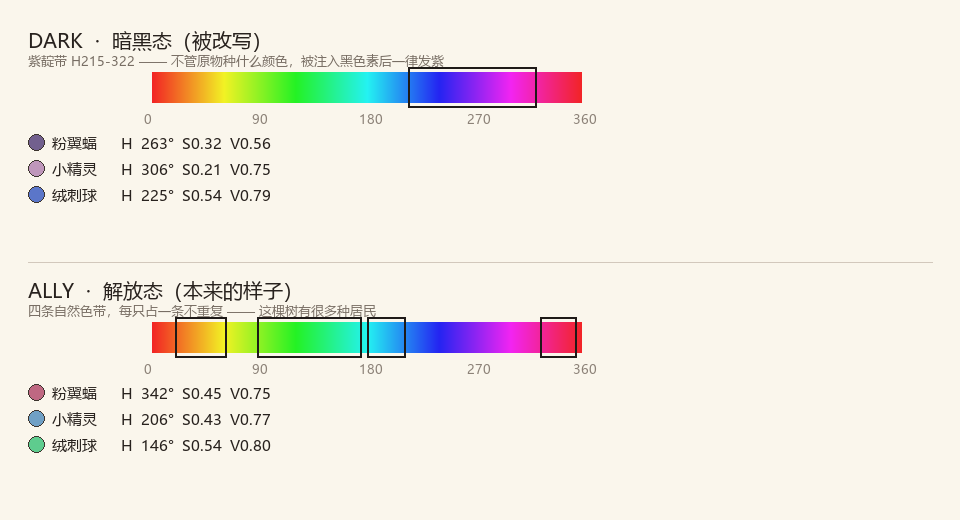
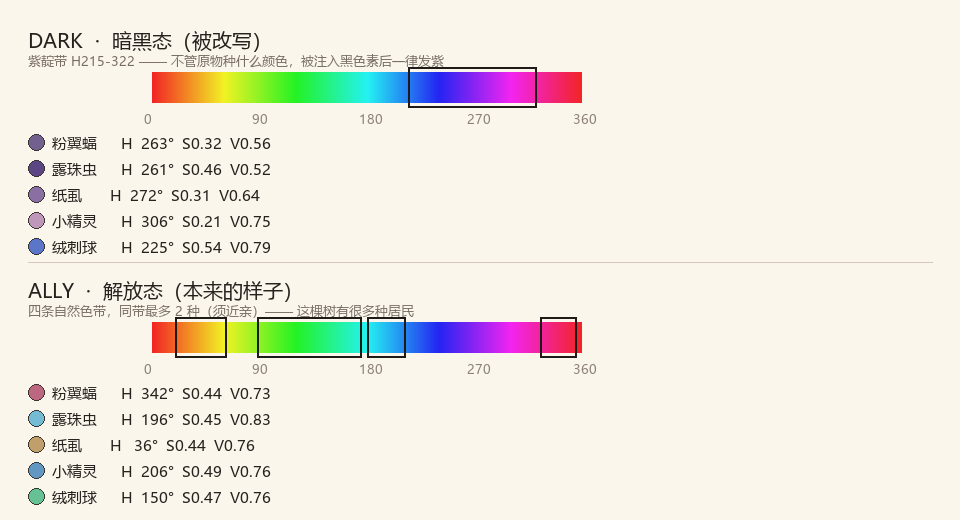
美术: 补齐第 4、5 种敌人两态（纸屑群→纸虱 / 墨渍→露珠虫）
GDD 02 §5.3 写着 5 种敌人，art/approved/Enemies 只有 3 种 —— 文档和磁盘各自
都"合法"，谁也不报错，欠账就这么藏了两轮。这轮补完，并把这条变成断言。

## 两条新敌人：生图三轮才对

纸屑群/墨渍从零生图，试了三版，每版栽在不同地方：
v1 色对但太暗（V0.26 / 0.17，既有三只是 0.56-0.79）+ 墨渍带了一圈墨滩，
   放大会变一条黑杠（等于画了地面阴影）
v2 明度上来但偏粉（纸虱 H330，暗带只到 322）+ 纸片半透明、透出洋红底
v3 多出一圈白贴纸边（既有暗黑态是深紫外轮廓，白边一眼不是同一批）
v4 拿既有的 slime 暗黑态当**风格参考**（只借色语言与蜡笔层次，不借形状）
   → 一次过：lice H272 S0.31 V0.64 cmp 0.56 / ink H261 S0.46 V0.52 cmp 0.48

**结论：暗黑态的色相和明暗层次必须生在源头。** 试过后期 p5-p95 拉伸 + 加法平移，
V 从 0.17 顶到 0.78，对比度仍是 0.16 —— 平图硬拉只会得到一张浅灰的纸。
所以 `--dark` 只验不修：V 0.50-0.85、对比度 ≥0.40，不合就回源头重生成。

## 画布约定写进代码

三只旧 sprite 的 bbox 是 x[30,97] y[40,87] / x[29,95] y[40,87] / x[37,89] y[40,87]
—— 内容高都 48、脚底都压 y=87、最大宽 68。这套是量出来的，不是猜的，
新敌人并排站才一样高。`place()` 按它放，`--dark` 是唯一入口。

## 一条规则冲突（未解决，等白哥定）

MVP 敌人 5 种，自然色带只有 4 条，原规则写"每只占一条不重复"→ 第 5 只没位置。
放宽成「同带最多 2 种，且必须近亲」：加第 5 条带只能从嫩绿里切 25°，肉眼分不出，
等于假装有 5 种颜色。水蓝带现在是小精灵（软体）+ 露珠虫（水滴），语义成立。

另一条是真冲突，没绕过去：**纸的固有色是米白，但 ally 硬下限 S≥0.40**。
两条一撞，纸虱只能做成麦纸金 H36/S0.44，实战尺寸读作"暖褐纸片群"，比"晒过的白纸"脏一档。
三条出路（维持现状 / 给纸类开低饱和豁免 / 换物种）都写进 ASSET_RULES §3.1.3，
代价逐条列了，当前取 A（不动规则）。

## 断言：文档说几种，磁盘就得有几种 × 2 态

tree_check 加第 6 条：02 §5.3 每行的**资产键**必须两个状态的文件都在。
反向验证：移走 enemy_ink_ally_00_sprite.png → 立刻报「墨渍 ally 版缺文件」。
（加这条之前，5 种缺 2 种是完全静默的。）

02 §5.3 同时加「资产键」列 —— 文档名（纸团）↔ 物种（史莱姆）↔ 文件名（slime）
三者终于有了一张对照表，不用再靠猜。

## 其它

- duo_state 支持无卡物种：lice/ink 走生图产线没有 PALETTES 色卡，
  但仍参与同一份断言；summary 里印「生成版」而不印 Δ色相（相对判据对重画的版本不成立）
- 修 --palette 误触产出分支（带查看开关时不该重算候选，遇到生图物种就炸）
- 可重现性验证：换名后的原始图重跑，四张资产逐字节相同
[…]

diff --git a/art/tools/duo_state.py b/art/tools/duo_state.py
@@ -459,13 +459,22 @@ def ally_path(key: str) -> Path:
     return ENEMY_DIR / f"{m.group(1)}_ally_{m.group(2)}_sprite.png"
 
 
+# 五个物种的中文名（GDD 05 §5 / 02 §5.3 同源）。色卡只管走**换色产线**的物种；
+# 走生图产线的物种没有色卡，靠 ally_from_gen.py 的 TARGET_HUE —— 但它们在
+# `--check` 里仍要参与同一份断言，所以名字必须能取到。
+SPECIES_CN = {
+    "slime": "小精灵", "bat": "粉翼蝠", "spike": "绒刺球",
+    "lice": "纸虱", "ink": "露珠虫",
+}
+
+
 def card_of(key: str) -> dict:
     sp = species_of(key)
-    if sp not in PALETTES:
-        raise SystemExit(
-            f"{sp} 没有色卡 —— 不猜目标色。先跑 `--probe` 看它的色相锚点，"
-            f"再往 PALETTES 里加一条（参照已有的 slime / bat / spike）")
-    return PALETTES[sp]
+    if sp in PALETTES:
+        return PALETTES[sp]
+    if sp not in SPECIES_CN:
+        raise SystemExit(f"未知物种 {sp}：既没色卡也不在 SPECIES_CN 里，不猜")
+    return dict(species=SPECIES_CN[sp], why="生图产线（ally_from_gen.py）", generated=True)
 
 
 # ── probe：量色相锚点（配色卡时的依据） ─────────────────────────────
@@ -549,7 +558,7 @@ def palette_sheet(rows) -> Path:
           "紫靛带 H215-322 —— 不管原物种什么颜色，被注入黑色素后一律发紫",
           [DARK_HUE_BAND], rows, 1)
     block(276, "ALLY  ·  解放态（本来的样子）",
-          "四条自然色带，每只占一条不重复 —— 这棵树有很多种居民",
+          "四条自然色带，同带最多 2 种（须近亲）—— 这棵树有很多种居民",
           ALLY_HUE_BANDS, rows, 2)
 
     d.line([(28, 262), (W - 28, 262)], fill=(210, 200, 188))
@@ -575,17 +584,24 @@ def main() -> int:
 
     errs: list[str] = []
     rows = []
+    # 只有"纯产出"（不带任何查看开关）才动文件。--palette/--sheet 只是画图，
+    # 不该顺手重算候选，更不该因为遇到生图物种就炸掉整张总览图。
+    produce = not any(f in args for f in ("--check", "--palette", "--sheet", "--probe"))
 
     for key, src in srcs:
         dark = Image.open(src).convert("RGBA")
         dst = ally_path(key)
         card = card_of(key)
-        if "--check" in args:
+        if "--check" in args or not produce:
             if not dst.exists():
                 errs.append(f"{key}: 还没生成 {dst.name} —— 跑一次不带 --check 的")
                 continue
             ally = Image.open(dst).convert("RGBA")
         else:
+            if card.get("generated"):
+                raise SystemExit(
+                    f"{key}: {card['species']} 没有色卡 —— 它走的是生图产线。"
+                    "换色救不了眼睛（凶感来自眼型），请用 ally_from_gen.py --set")
             # 默认只出候选，**不覆盖 approved**。
             # 2026-11-27 踩过：守卫循环里 `python duo_state.py`（无参数）跑了一次，
             # 把生成版 ally 覆盖回了换色版，而 --check 随后报 PASS（换色版本身是合法的）。
@@ -607,9 +623,15 @@ def main() -> int:
     print("-" * 70)
     for key, d, al, card, e in rows:
         md, ma = metrics(d), metrics(al)
-        print(f"{key:<28}{_hue_delta(md['hue'], ma['hue']):>7.0f}°"
-              f"  {md['sat']:.2f}→{ma['sat']:.2f}"
-              f"   {md['cmp']:.2f}→{ma['cmp']:.2f}")
+        if card.get("generated"):
+            # 生图版是重画的：色系来自目标带而不是继承 dark，
+            # 印"Δ色相/饱和塌没塌"会误导 —— 那两条判据对它本来就是关的。
+            print(f"{key:<28}{'生成版':>8}"
+                  f"  S {ma['sat']:.2f}   V {ma['vavg']:.2f}   带 {ma['hue']:.0f}°")
+        else:
+            print(f"{key:<28}{_hue_delta(md['hue'], ma['hue']):>7.0f}°"
+                  f"  {md['sat']:.2f}→{ma['sat']:.2f}"
+                  f"   {md['cmp']:.2f}→{ma['cmp']:.2f}")
         print(f"  └ {card['species']}：{card['why']}")
         for msg in e:
             print(f"  ✗ {msg}")

diff --git a/tools/ref/tree_check.py b/tools/ref/tree_check.py
@@ -32,6 +32,7 @@ DOC04 = GDD / "04_关卡与地图.md"
 DOC02 = GDD / "02_战斗系统.md"
 DOC_REF = REF / "REF_TREE_PHYSIOLOGY.md"
 JSON_REF = REF / "tree_physiology_refs.json"
+ENEMY_DIR = ROOT / "art" / "approved" / "Enemies"
 
 # 八处翻译：系统词 → 生理词（必须同一行出现）
 MAPPINGS = [
@@ -374,6 +375,28 @@ def check_duo(r05: str, r03: str, r02: str) -> list[str]:
         empty = [r[0] for r in rows2 if ci >= 0 and (ci >= len(r) or not r[ci].strip("—*- "))]
         if empty:
             errs.append(f"02 §5.3: {len(empty)} 个敌人没填原住民态（{', '.join(empty)}）")
+
+        # 6. 文档说 5 种，磁盘上就必须有 5 种 × 2 态。
+        # 加这条之前，02 写着 5 种而 art/approved/Enemies 只有 3 种，
+        # 两边各自都"合法"，谁也不报错 —— 美术欠账就是这么藏住的。
+        # 判据必须指向**文件存在**，不是指向文档里有个名字。
+        if "资产键" not in "".join(hdr2):
+            errs.append("02 §5.3: 表头缺「资产键」列 —— 文档名与文件名没有对应，"
+                        "读者只能靠猜 enemy_??_idle_00_sprite 是哪只")
+        else:
+            ki = next((i for i, h in enumerate(hdr2) if "资产键" in h), -1)
+            for r in rows2:
+                if ki < 0 or ki >= len(r):
+                    continue
+                key = r[ki].strip(" `*")
+                if not key:
+                    errs.append(f"02 §5.3: 「{r[0]}」没填资产键")
+                    continue
+                for st in ("idle", "ally"):
+                    f = ENEMY_DIR / f"enemy_{key}_{st}_00_sprite.png"
+                    if not f.exists():
+                        errs.append(f"02 §5.3: 「{r[0]}」的 {st} 版资产缺文件（{f.name}）"
+                                    "—— 表里写了、磁盘上没有")
 
     return errs
 

diff --git a/INDEX.md b/INDEX.md
@@ -97,9 +97,9 @@
 | `tools/ref/stardew_check.py` | **星露谷数据校验器**：派生数自洽（270+7×34=508、6×24≥135、2x+50=3x→50）+ 文档数字同行一致 + 6 条结论句在位 + **从 03 实时解析投料参数重算回本表**。11-27 加**双分支**：03 还有星级表 → 重算比对；已无星级表 → 查 §10.3 是否标了「已被种子方案取代」（否则作废结论会以「待裁决」的样子留着）。反向验证五处 | 🟡 参考 |
 | ⭐ `docs/ref/REF_TREE_PHYSIOLOGY.md` | **世界树生理的事实底座**（11-27 建）：不做植物学教程，只回答"哪些机制能用、哪些不能用"。**两条流可被独立切断**（环剥：韧皮部断 / 木质部完好 / 根饿死 / 叶照绿 / 地上部分数周到数月看不出）；**树不愈合只隔离**（CODIT，愈伤 2–4 周起、小伤 1–2 季、大伤 3–5 年、从两侧长）；**吸器是双向的**（同器官既抽又注，可传 mRNA/蛋白/56 种病毒）、**菟丝子成网**（多寄主、信号传 1 米）、**变黑=导管栓塞+黑色素**（黑暗化不另立设定）、**女巫扫帚**（原生物种被改写，潜伏 2–3 年）、**心腐只吃心材**（树带烂心可活百年）。§6 物资两分，§8 列了**有依据的减法**（涂封剂无效 / 加工界面 / 心腐进度条） | 🟡 参考 |
 | `docs/ref/tree_physiology_refs.json` | 上面那份的结构化数据：两条流 / 环剥 / 伤口 / **寄生（吸器双向、成网、56 病毒）** / **黑化（栓塞+黑色素+甲虫媒介）** / **畸形（女巫扫帚潜伏 3–4 年）** / **物资两分** 七组事实 + **八处系统↔生理翻译** + 四条不抄。带内部一致性断言（可独立切断 ⇒ 木质部完好；吸器单向 ⇒ 注入无通道；稀有无再生 ⇒ 可再生则主线可刷） | 🟡 参考 |
-| `tools/ref/tree_check.py` | **主线落地校验器**：JSON 内部不矛盾（根断糖时叶子不能缺水；吸器非双向则"注入"无通道；可种=可再生/不可种=不可再生）+ 05 **八处**翻译齐全且与 JSON 条数一致 + 「不接数值」禁令 + 「带着疤活着」+ 03 §0.1 田的主人是原住民 / §0.2 稀有物品永远不能种 + **03 §6 不得再写"吸血虫"（外来种不能招安）** + 04 六区生理角色 + **02 §5.3 表头必须有"来源"列且五行全原生（查表头行，不查整段）** + REF 五个关键数字。反向验证**十二处**全部抓到（其中"删来源列"第一次糊过 —— 段落里也有"来源"两字，改成查表头才抓住；"删只换色系"也糊过一次 —— 断言用了"换色系"这个泛词，改成要求「换色」+「轮廓」同行才抓住）。11-27 加 §1.5.1 与两条敌人表的**原住民态列**断言（表头逐列取，5 行都必须填） | 🟡 参考 |
-| ⭐ `art/tools/duo_state.py` | **换色产线**（11-27 建，同日重写）：`--probe` 量 dark 的色相锚点 → 每只一张色卡 → 分区映射到 ally 目标色相，明度只做加法平移（不往白推）。**八条断言**：尺寸同 / **轮廓 IoU≥0.95** / 边缘不糊 / **Δ色相≥60°** / 饱和 / 对比度 / 无彩色不染 / **落在各自色带**。v2 的「提亮+去脏」被白哥驳回为"褪色不是变色"（Δ色相 5°、饱和砍 58%、对比度砍 55%），留档在 `ASSET_RULES §3.1.1`。**默认只写 `art/out/duo/hue/`，`--approve` 才进 approved**（无参数跑一次就把生成版覆盖回换色版，踩过）。`--palette` 出两套色系图 | ✅ 可用 |
-| ⭐ `art/tools/ally_from_gen.py` | **入库产线**（11-27 建）：眼睛换色救不了 —— 像素 patch 四版全废（128px 局部重绘必然贴片感），改走整只生图重画、只改眼睛。流程：洋红底泛洪抠图（**动态取底色**，三张生成图底色不同）→ 对齐缩放 → **色相归位**（分区映射，金银眼 keep 住不转；位置加权判主体色相，否则 spike 的橙刺会压过绿身体）→ 校验 IoU/色带/饱和/明度。与 duo_state **共用同一份断言**，不会偷偷放水 | ✅ 可用 |
+| `tools/ref/tree_check.py` | **主线落地校验器**：JSON 内部不矛盾（根断糖时叶子不能缺水；吸器非双向则"注入"无通道；可种=可再生/不可种=不可再生）+ 05 **八处**翻译齐全且与 JSON 条数一致 + 「不接数值」禁令 + 「带着疤活着」+ 03 §0.1 田的主人是原住民 / §0.2 稀有物品永远不能种 + **03 §6 不得再写"吸血虫"（外来种不能招安）** + 04 六区生理角色 + **02 §5.3 表头必须有"来源"列且五行全原生（查表头行，不查整段）** + REF 五个关键数字。反向验证**十二处**全部抓到（其中"删来源列"第一次糊过 —— 段落里也有"来源"两字，改成查表头才抓住；"删只换色系"也糊过一次 —— 断言用了"换色系"这个泛词，改成要求「换色」+「轮廓」同行才抓住）。11-27 加 §1.5.1 与两条敌人表的**原住民态列**断言（表头逐列取，5 行都必须填）+ **§5.3 资产键必须落到磁盘**（表里写 5 种、磁盘只有 3 种那会儿两边都合法，谁也不报错；现在缺一个文件就 FAIL，反向验证：移走 `enemy_ink_ally_00_sprite.png` 立刻报「墨渍 ally 缺文件」） | 🟡 参考 |
+| ⭐ `art/tools/duo_state.py` | **换色产线**（11-27 建，同日重写）：`--probe` 量 dark 的色相锚点 → 每只一张色卡 → 分区映射到 ally 目标色相，明度只做加法平移（不往白推）。**八条断言**：尺寸同 / **轮廓 IoU≥0.95** / 边缘不糊 / **Δ色相≥60°** / 饱和 / 对比度 / 无彩色不染 / **落在各自色带**。v2 的「提亮+去脏」被白哥驳回为"褪色不是变色"（Δ色相 5°、饱和砍 58%、对比度砍 55%），留档在 `ASSET_RULES §3.1.1`。**默认只写 `art/out/duo/hue/`，`--approve` 才进 approved**（无参数跑一次就把生成版覆盖回换色版，踩过）。`--palette` 出两套色系图。**生图产的物种没有色卡**（lice/ink），但仍在同一份断言里 —— `card_of` 退化成只有物种名的空卡，summary 里印「生成版」而不印 Δ色相（相对判据对重画的版本本来就不成立）| ✅ 可用 |
+| ⭐ `art/tools/ally_from_gen.py` | **入库产线**（11-27 建）：眼睛换色救不了 —— 像素 patch 四版全废（128px 局部重绘必然贴片感），改走整只生图重画、只改眼睛。流程：洋红底泛洪抠图（**动态取底色**，三张生成图底色不同）→ 对齐缩放 → **色相归位**（分区映射，金银眼 keep 住不转；位置加权判主体色相，否则 spike 的橙刺会压过绿身体）→ 校验 IoU/色带/饱和/明度。与 duo_state **共用同一份断言**，不会偷偷放水。**11-27 补 `--dark`**：新敌人的暗黑态也从这里入库，按**画布约定**放（内容高 48 / 脚底 y=87 / 居中 —— 从三只旧 sprite 量出来的，不是猜），并校验基调（V 0.50–0.85、对比度 ≥0.40）**只验不修** —— 试过后期加法平移拉亮，V 从 0.17 顶到 0.78 而对比度仍是 0.16，等于把黑炭洗成灰纸。五个物种实测：lice H272/V0.64、ink H261/V0.52、slime H306/V0.75、bat H263/V0.56、spike H225/V0.79 | ✅ 可用 |
 
 ## ⚪ 历史报告（`docs/history/`，只读，不再更新）
 

diff --git a/ART_INVENTORY.md b/ART_INVENTORY.md
@@ -32,8 +32,8 @@
 | 地砖 | 6 张 | 192×48（旧规格，作废） | 生图裁切（失败） | 🔴 **废件，待重做** |
 | 平台板 | 6 张 | 48×20 | 同上 | ✅ 可用 |
 | 背景 | **1 张（只有 hall）** | 960×540 | 生图 → 裁切 | 🟠 只够一间房 |
-| 敌人 | **3 张 × 2 态 = 6 张**（史莱姆 / 蝙蝠 / 刺球） | 128×128 帧，游戏内高 48 | 生图 → 洋红 → 定帧 | ✅ 已跑通（11-27 复核） |
-| 敌人·原住民态 | **3 张**（`*_ally`，同造型换色系） | 同上，alpha 逐像素同 dark 版 | `art/tools/duo_state.py` | ✅ 已跑通（11-27） |
+| 敌人 | **5 张 × 2 态 = 10 张**（史莱姆 / 蝙蝠 / 刺球 / 纸虱 / 墨滴虫） | 128×128 帧，游戏内高 48 | 生图 → 洋红泛洪抠图 → `ally_from_gen.py --dark` 按画布约定放置 | ✅ 齐了（11-27，与 `02 §5.3` 五色对应） |
+| 敌人·原住民态 | **5 张**（`*_ally`，同造型换色/换眼） | 同上；换色版 alpha 逐像素同，生图版轮廓 IoU≥0.95 | `duo_state.py`（换色）/ `ally_from_gen.py`（生图） | ✅ 已跑通（11-27） |
 | 道具（门/灯/画框） | 0 张 | — | `game.js` fillRect | 🔴 程序画 |
 | UI | **0 张** | 见 `UI_SKIN.md` | CSS 色块 | 🔴 未开始 |
 | 字体 | 0 | — | 系统等宽 | 🔴 未定 |
@@ -41,8 +41,10 @@
 全部 PNG 经 `build.py` 转 base64 内嵌进 `SoulKeep.html`（2.4 MB）。
 **换图不重跑 `build.py`，游戏里还是旧像素** —— 这坑踩过两次，写进 `STYLE_LOCK §L11` 了。
 
-> **本表 2026-11-27 只复核了「敌人」两行**（`art/approved/Enemies/` 实有 3 张 sprite，
+> **本表 2026-11-27 只复核了「敌人」两行**（`art/approved/Enemies/` 实有 10 张 sprite，
 > 且 `manifest.json` 有记录，旧表的「0 张 / fillRect」已过期，误导读排期）。
+> 「5 种 × 2 态」现在由 `tree_check.py` 守着：02 §5.3 的资产键在磁盘上缺任何一个文件就 FAIL
+> —— 加这条之前，文档写 5 种、磁盘只有 3 种，两边各自合法，谁都不报错。
 > **其余行未逐项复核** —— 尤其「地砖 🔴 废件」「UI 0 张」两条与后来的产线记录可能已不同步，
 > 谁要用这张表排期，先按目录数一遍再信。
 

diff --git a/docs/gdd/02_战斗系统.md b/docs/gdd/02_战斗系统.md
@@ -223,13 +223,13 @@
 
 ### 5.3 根系 5 种（MVP 要做的全部敌人）
 
-| 名（暗黑态） | 来源 | 物种 | 原住民态 | 威胁方式 | 教什么 | 弱点 |
-|---|---|---|---|---|---|---|
-| **纸团** | 原生 | 史莱姆 | 小精灵 | 直线滚撞 | 教"翻滚躲" | 撞墙会散开 1 秒，此时挨打双倍 |
-| **纸片蝙蝠** | 原生 | 蝙蝠 | 粉翼蝠 | 俯冲，飞 | 教"投掷打空中" | 俯冲后 0.8s 落地硬直 |
-| **折痕体** | 原生 | 刺球 | 绒刺球 | 折起来无敌，展开才可打 | 教"看时机，不是狂按" | 展开瞬间有 0.3s 破绽 |
-| **纸屑群** | 原生 | 纸虱 | 纸虱（群居） | 数量多（5–8 只小体），围上来 | 教"别被围" | 单体极脆，一次投掷穿多只 |
-| **墨渍** | 原生 | 墨滴虫 | 露珠虫 | 远程喷墨，命中减速 | 教"优先处理远程" | 喷墨时有 1s 蓄力硬直 |
+| 名（暗黑态） | 来源 | 物种 | 原住民态 | 资产键 | 威胁方式 | 教什么 | 弱点 |
+|---|---|---|---|---|---|---|---|
+| **纸团** | 原生 | 史莱姆 | 小精灵 | `slime` | 直线滚撞 | 教"翻滚躲" | 撞墙会散开 1 秒，此时挨打双倍 |
+| **纸片蝙蝠** | 原生 | 蝙蝠 | 粉翼蝠 | `bat` | 俯冲，飞 | 教"投掷打空中" | 俯冲后 0.8s 落地硬直 |
+| **折痕体** | 原生 | 刺球 | 绒刺球 | `spike` | 折起来无敌，展开才可打 | 教"看时机，不是狂按" | 展开瞬间有 0.3s 破绽 |
+| **纸屑群** | 原生 | 纸虱 | 纸虱（群居） | `lice` | 数量多（5–8 只小体），围上来 | 教"别被围" | 单体极脆，一次投掷穿多只 |
+| **墨渍** | 原生 | 墨滴虫 | 露珠虫 | `ink` | 远程喷墨，命中减速 | 教"优先处理远程" | 喷墨时有 1s 蓄力硬直 |
 
 > 五种对应五种教学点，一个不多一个不少。多一种是浪费美术，少一种会漏教学。
 >
